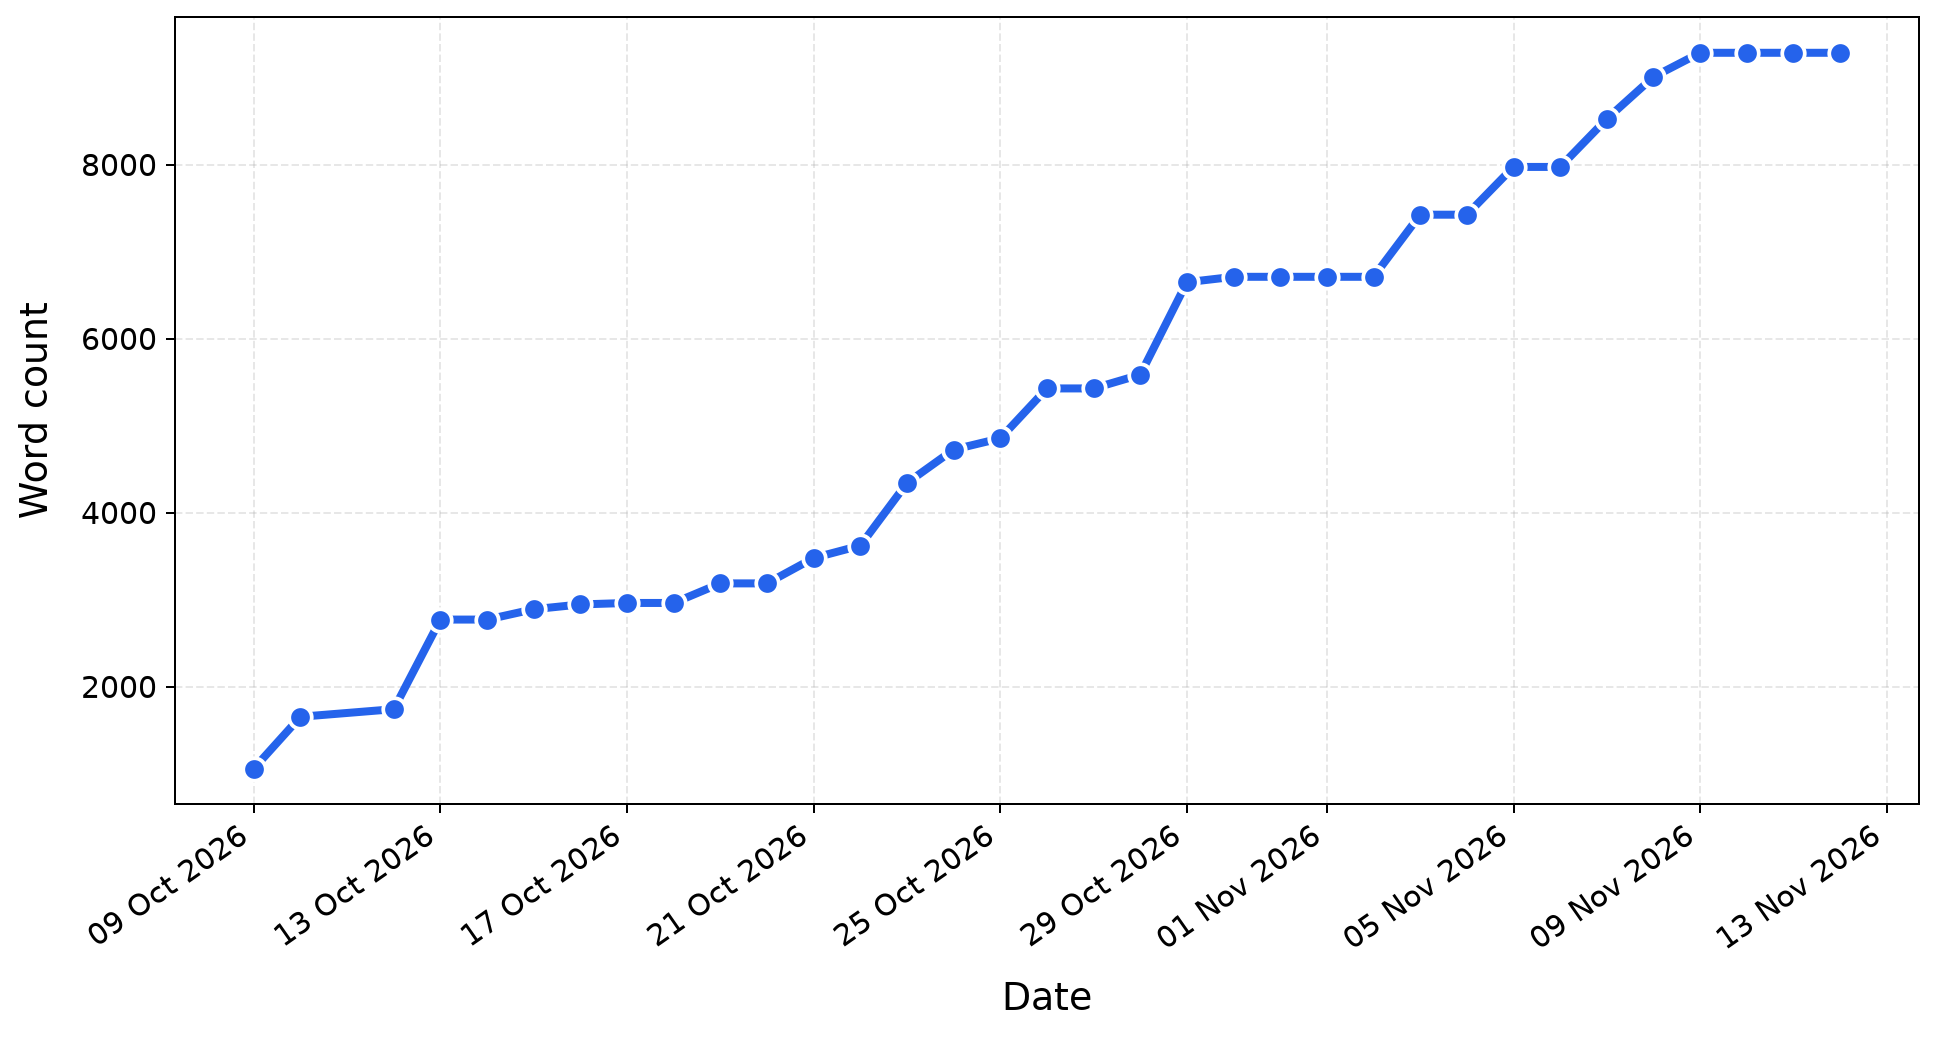
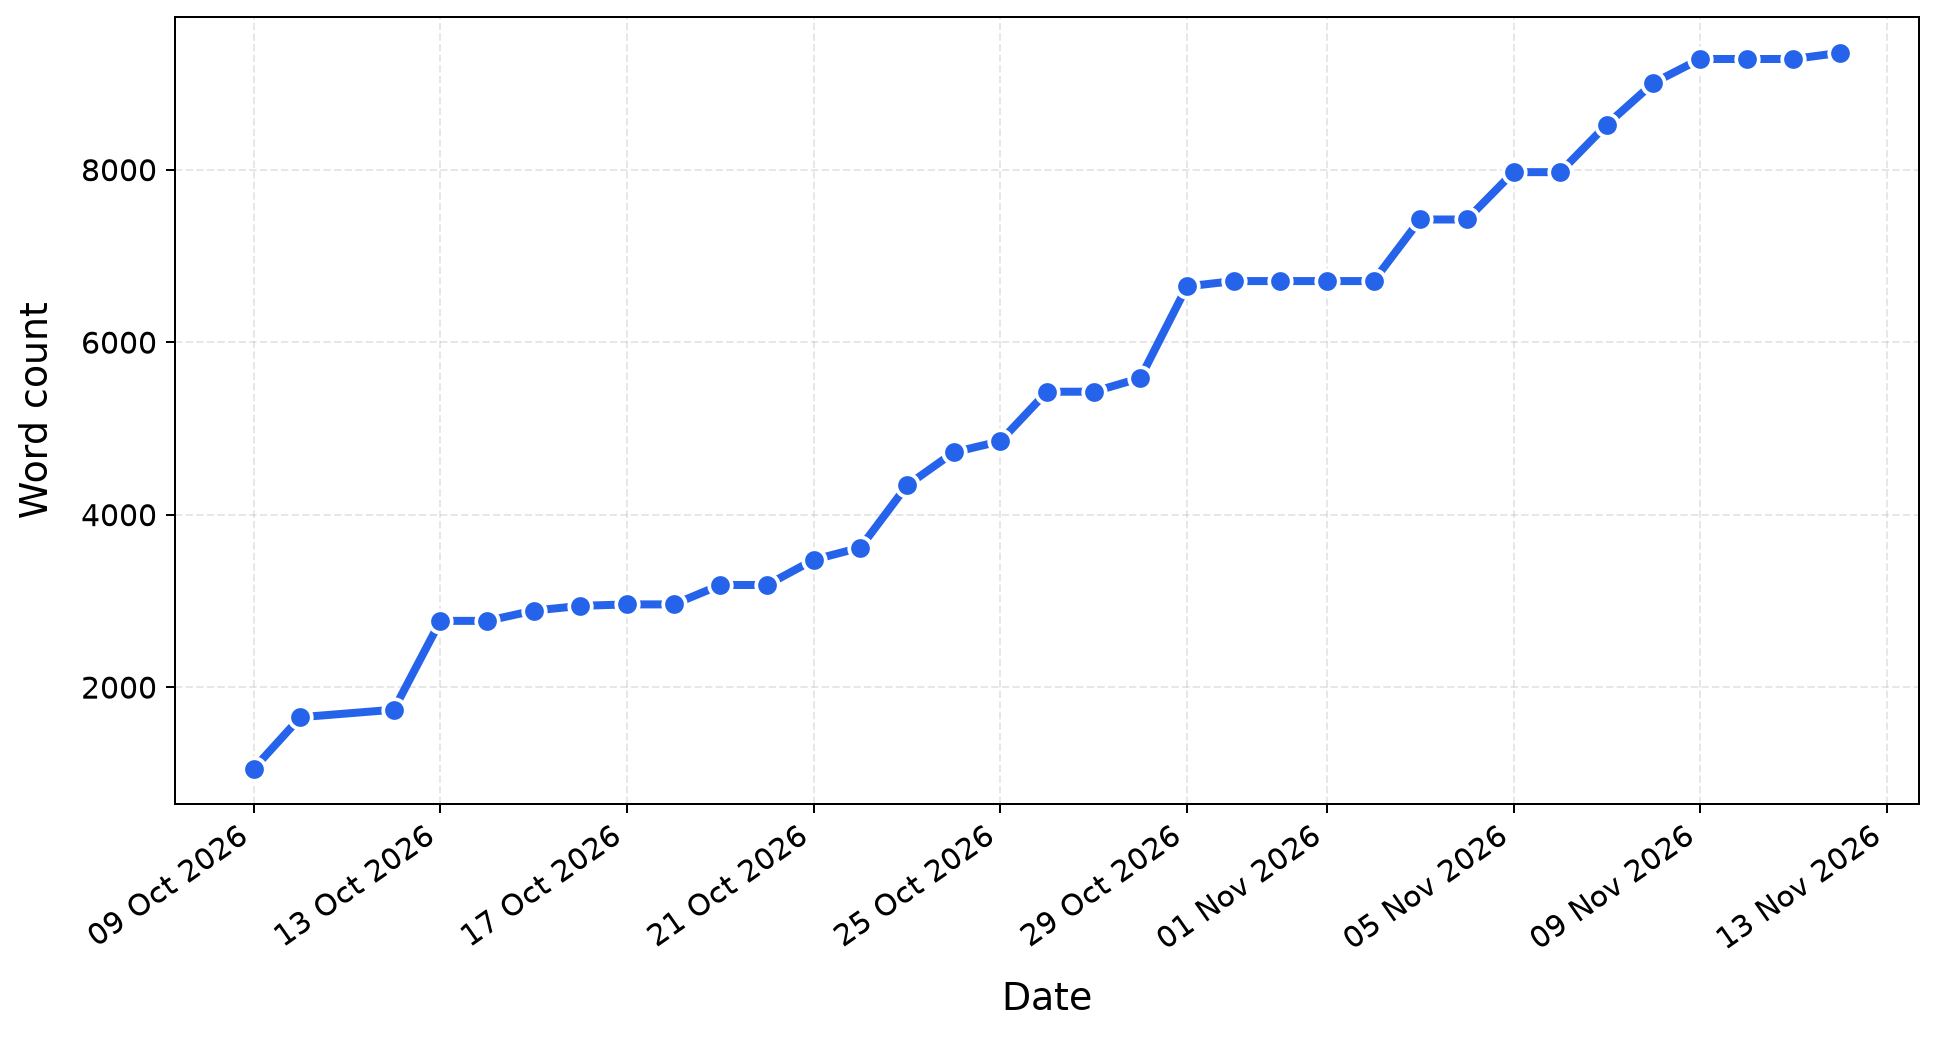
Update thesis progress dashboard

diff --git a/index.html b/index.html
@@ -12,7 +12,7 @@
     <p class="eyebrow">THESIS WRITING LOG</p>
     <h1>Thesis Progress</h1>
     <p>A visual overview of writing progress over time.</p>
-    <p class="updated">Last updated: 2026-11-12 10:21 CET</p>
+    <p class="updated">Last updated: 2026-11-12 23:25 CET</p>
   </header>
 
   <main>
@@ -28,10 +28,10 @@
 
         <article class="summary-card">
           <p class="summary-label">Total words</p>
-          <p class="summary-total">9,285</p>
+          <p class="summary-total">9,357</p>
           <p class="summary-change"
              style="color: #16A34A;">
-            +277 this week
+            +349 this week
           </p>
         </article>
         
